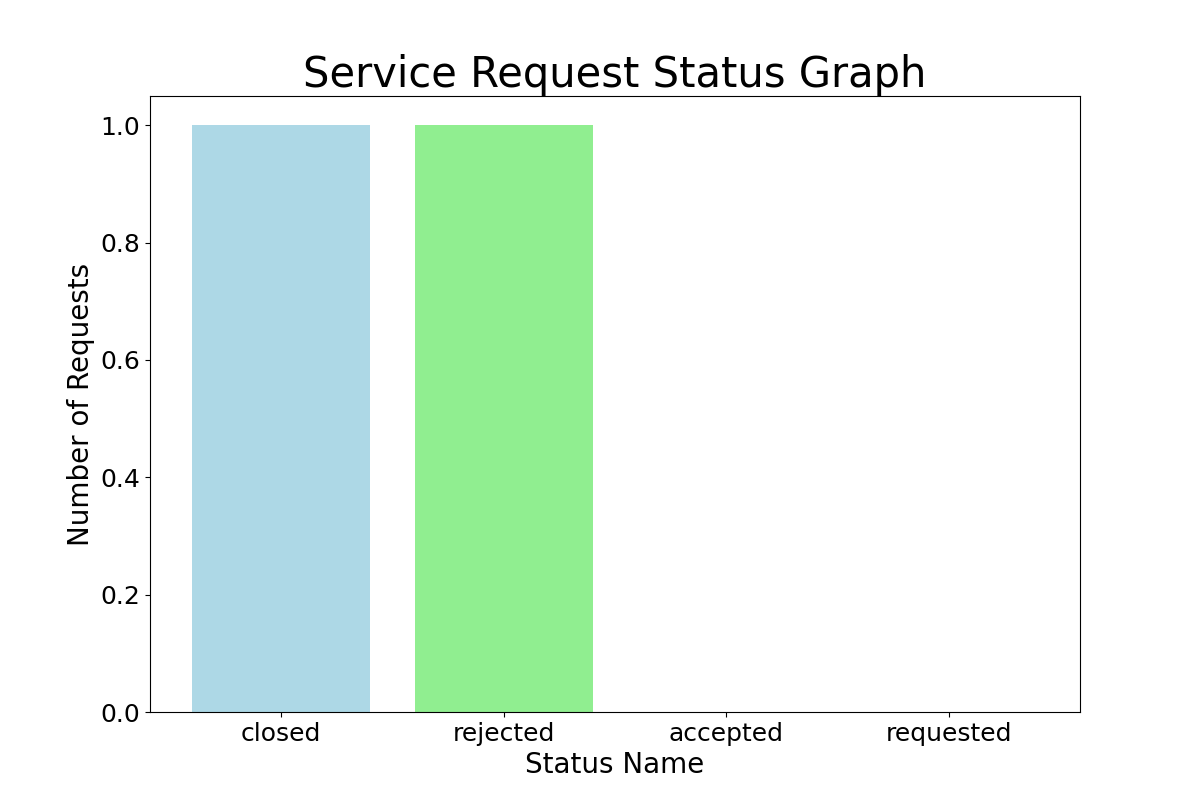
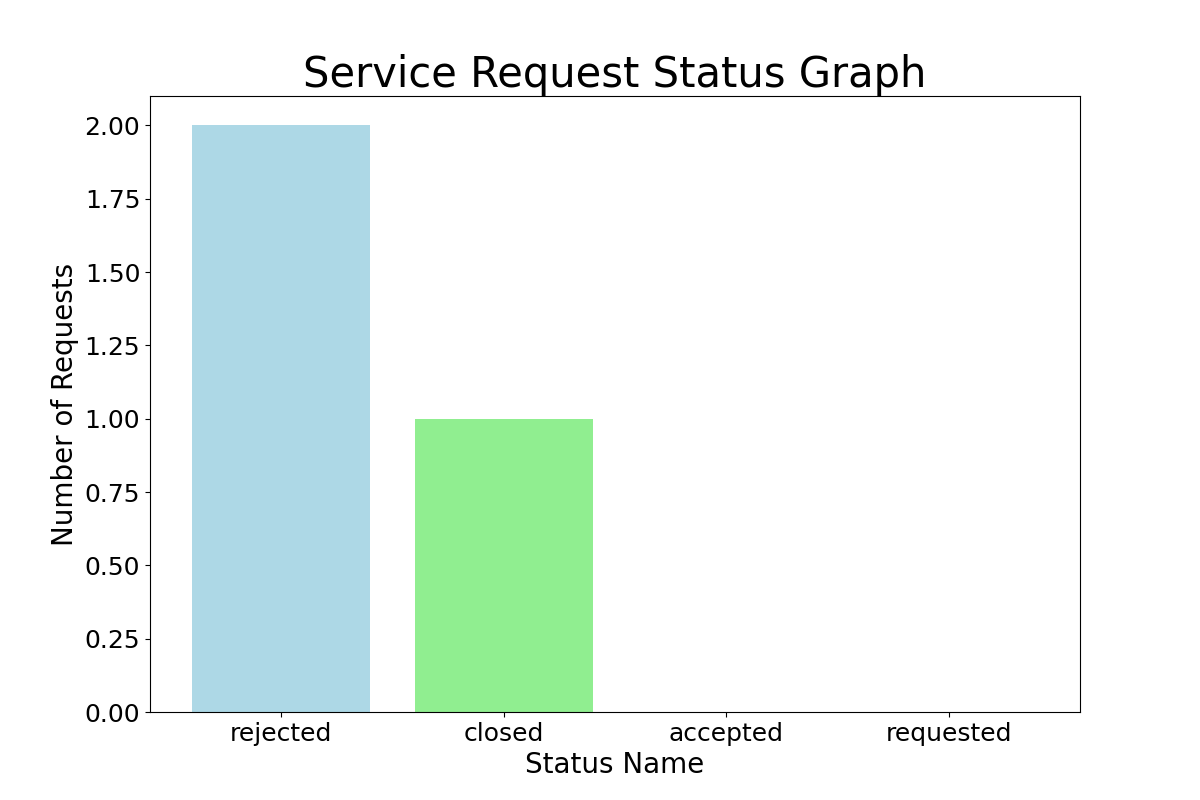
Added styling, admin summary page

diff --git a/templates/admin_summary.html b/templates/admin_summary.html
@@ -69,7 +69,7 @@
             grid-template-rows: repeat(2, 1fr);
             grid-template-columns: repeat(2, 1fr);
             width: 80vw;
-            margin-left: 200px;
+            margin-left: 150px;
             margin-top: 40px;
             gap: 20px;
             padding: 20px;
@@ -86,13 +86,13 @@
             width: 100%;
             height: 100%;
             aspect-ratio: 1 / 1;
-            max-width: 400px;
-            max-height: 300px;
+            max-width: 500px;
+            max-height: 400px;
             border: 1.5px solid black;
         }
 
         footer {
-            margin-top: 70px;
+            margin-top: 35vh;
             align-items: center;
             text-align: center;
             background-color: rgb(164, 252, 164);
@@ -127,20 +127,24 @@
         </div>
     </header>
     <main>
-        <div class="main">
-            <div>
-                <img class="grid-item" src="/static/admin_summary_1.png" alt="img1">
+        {% if message == 'no_data' %}
+            <div style="text-align: center; font-size: 45px; margin-top: 100px;">No data available! First provide some services.</div>
+        {% else %}
+            <div class="main">
+                <div>
+                    <img class="grid-item" src="/static/admin graphs/overall_service_status.png" alt="service status graph">
+                </div>
+                <div>
+                    <img class="grid-item" src="/static/admin graphs/overall_rating.png" alt="overall customer ratings to professionals">
+                </div>
+                <div>
+                    <img class="grid-item" src="/static/admin graphs/service_request_under_types.png" alt="service request under different service categories">
+                </div>
+                <div>
+                    <img class="grid-item" src="/static/admin graphs/professional_according_to_ratings.png" alt="Professionals with their ratings">
+                </div>
             </div>
-            <div>
-                <img class="grid-item" src="/static/admin_summary_2.png" alt="img2">
-            </div>
-            <div>
-                <img class="grid-item" src="/static/admin_summary_3.png" alt="img3">
-            </div>
-            <div>
-                <img class="grid-item" src="/static/admin_summary_4.png" alt="img4">
-            </div>
-        </div>
+        {% endif %}
     </main>
     <footer>
         <p>

diff --git a/templates/prof_summary.html b/templates/prof_summary.html
@@ -87,7 +87,7 @@
     
     <main>
         {% if message == 'no_data' %}
-            <div style="text-align: center; font-size: 45px; margin-top: 100px;">No data available! First make some requests.</div>
+            <div style="text-align: center; font-size: 45px; margin-top: 100px;">No data available! First provide some services.</div>
         {% else %}
             <div class="main">
                 <div>

diff --git a/static/css/table-styling.css b/static/css/table-styling.css
@@ -25,8 +25,11 @@
     text-align: left;
 }
 
+/* .styled-table  */
+
 .styled-table th {
     background-color: #f2f2f2;
+    background-color: lightgreen;
 }
 
 .styled-table tr:nth-child(even) {

diff --git a/app.py b/app.py
@@ -19,7 +19,7 @@ app.app_context().push()
 
 #------------ Admin Details --------------#
 ADMIN_PASS = "good123"
-ADMIN_NAME = "Anant Sharma"
+ADMIN_NAME = "Anant Luthra"
 
 #------------ Database classes ---------------#
 
@@ -648,13 +648,127 @@ def admin_search():
         return f"Received: {search_criteria}, {search_by}, {value_of_search}"
 
 
+def admin_graphs():
+    """
+    function will generate graph images for admin's summary page
+    """
+
+    sear = service_request.query.all()
+
+    types = {'accepted': 0, 'requested': 0, 'closed': 0, 'rejected': 0}
+    stars = {}
+
+    # for graph showing service requests status.
+    for request in sear:
+        types[request.service_status] += 1
+
+    # for graph telling customer ratings given by users to professionals.
+    for request in sear:
+
+        if request.rstars in stars:
+            stars[request.rstars] += 1
+
+        else:
+            stars[request.rstars] = 1
+
+    if 0 in stars:
+        del stars[0]
+
+
+    # for graph telling service request under all service types.
+    service_types = {}
+
+    for request in sear:
+
+        if request.service.type in service_types:
+            service_types[request.service.type] += 1
+
+        else:
+            service_types[request.service.type] = 1
+
+
+    # for graph showing professional with their rating.
+    prof = professional.query.all()
+    
+    prof_rating = {}
+
+    for one in prof:
+        prof_rating[one.fullname] = one.rating
+    
+
+    # Sort the types dictionary by values in descending order
+    sorted_types = dict(sorted(types.items(), key=lambda item: item[1], reverse=True))
+
+    # Creating bar graph for service status for the admin
+    plt.figure(figsize=(12, 8))
+    plt.bar(sorted_types.keys(), sorted_types.values(), color=['lightgreen', 'yellowgreen', 'lightcoral', 'lightgrey'])
+    plt.xlabel('Status Name', fontsize=20)
+    plt.ylabel('Number of Requests', fontsize=20)
+    plt.title('Overall Service Request Status Graph', fontsize=30)
+    plt.xticks(fontsize=18)
+    plt.yticks(fontsize=18)
+    bar_graph_path = os.path.join('static', 'admin graphs', f'overall_service_status.png')
+    plt.savefig(bar_graph_path)
+    plt.close()
+
+    # Creating pie chart for service type requests for that admin
+    plt.figure(figsize=(12, 8))
+    labels = stars.keys()
+    sizes = stars.values()
+    colors = ['gold', 'yellowgreen', 'lightcoral', 'lightskyblue', 'lightgreen', 'lightpink']
+    plt.pie(sizes, labels=labels, colors=colors, autopct='%1.0f%%', startangle=140, wedgeprops={'edgecolor': 'black'}, textprops={'fontsize': 20})
+    plt.axis('equal')
+    plt.title('Customer Service Ratings Chart', fontsize=30)
+    pie_chart_path = os.path.join('static', 'admin graphs', f'overall_rating.png')
+    plt.savefig(pie_chart_path)
+    plt.close()
+
+
+ 
+    # Creating pie chart for showing overall request under each service type.
+    plt.figure(figsize=(12, 8))
+    labels = service_types.keys()
+    sizes = service_types.values()
+    colors = ['lightblue', 'lightgreen', 'lightpink', 'lightskyblue', 'lightblack']
+    plt.pie(sizes, labels=labels, colors=colors, autopct='%1.0f%%', startangle=140, wedgeprops={'edgecolor': 'black'}, textprops={'fontsize': 20})
+    plt.axis('equal')
+    plt.title('Service requests under service type', fontsize=30)
+    pie_chart_path = os.path.join('static', 'admin graphs', f'service_request_under_types.png')
+    plt.savefig(pie_chart_path)
+    plt.close()
+
+
+    # Sort the professionals by rating in descending order and take the top 3
+    top_prof_rating = dict(sorted(prof_rating.items(), key=lambda item: item[1], reverse=True)[:3])
+    formatted_names = [name.replace(' ', '\n') for name in top_prof_rating.keys()]
+    plt.figure(figsize=(20, 14))
+    plt.barh(formatted_names, list(top_prof_rating.values()), color='skyblue')
+    plt.xlabel('Rating', fontsize=35)
+    plt.ylabel('Professionals', fontsize=45)
+    plt.title('Top 3 Professionals based on Ratings', fontsize=55)
+    plt.xticks(fontsize=30)
+    plt.yticks(fontsize=30)
+    plt.gca().invert_yaxis()  # Reverse the order to show the highest rating at the top
+    rating_graph_path = os.path.join('static', 'admin graphs', 'professional_according_to_ratings.png')
+    plt.savefig(rating_graph_path)
+    plt.close()
+
+    return True
+
 #----------------------- Admin Summary -----------------------------#
 
 @app.route('/admin_summary', methods = ['GET', 'POST'])
 def admin_summary():
 
     if request.method == 'GET':
-        return render_template('admin_summary.html', admin_name = ADMIN_NAME)
+
+        #this function will generate graph images for admin summary page
+        if admin_graphs():
+            return render_template("admin_summary.html", admin_name = ADMIN_NAME)
+    
+        else: #if no service requests history is present.
+            return render_template("admin_summary.html",admin_name = ADMIN_NAME, message = 'no_data')
+
     
     elif request.method == 'POST':
 
@@ -861,8 +975,8 @@ def prof_search(id):
                                 service.status == False,
                                 service_request.professional_id == prof.id,
                             ).order_by(service_request.rstars.desc()).all()
-            
-            
+        
+        
         elif search_by == 'location_name':
             search = service_request.query.join(customer).filter(
                                 customer.address.ilike(f"%{value_of_search}%"),
@@ -1298,9 +1412,6 @@ def customer_graphs(id):
 
     types = {'accepted': 0, 'requested': 0, 'closed': 0, 'rejected': 0}
     service_types = {}
-    total_requests = len(sear)
-
-
 
     for request in sear:
         types[request.service_status] += 1
